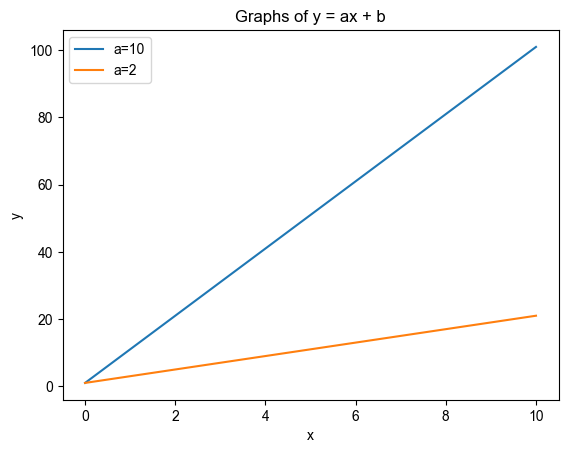
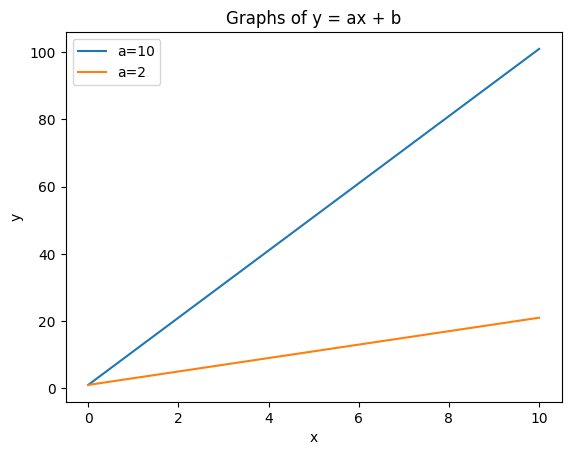
add posts

diff --git a/_posts/기울기.md b/_posts/기울기.md
@@ -1,0 +1,122 @@
+## 기울기
+
+기울어진 정도,가파른정도
+
+직선이존재할때 사선의 가파른정도
+
+어떻게해야 가파른 정도가 증가할까?
+
+
+
+
+
+
+
+
+
+```python
+#disable
+import matplotlib.pyplot as plt
+import numpy as np
+
+# Constants
+a_values = np.arange(10, -1, -1)  # Slopes from 10 to 0
+b = 5  # Intercept
+
+# Generate x values
+x = np.linspace(0, 10, 100)
+
+# Plotting
+for a in a_values:
+    y = a * x + b
+    plt.plot(x, y, label=f'Slope {a}')
+
+# Set plot properties
+plt.xlabel('x')
+plt.ylabel('y')
+plt.title('Graphs of y = ax + b')
+plt.legend()
+
+# Display the plot
+plt.show()
+
+```
+
+
+    
+![png](llinux910.github.io/assets/images/%EA%B8%B0%EC%9A%B8%EA%B8%B0_1_0.png)
+    
+
+
+x값의 증가할떄 y값이 더 크게 증가할수록 기울기는 증가한다
+
+
+
+
+```python
+#disable
+import numpy as np
+import matplotlib.pyplot as plt
+
+x = np.linspace(0, 10, 100)  # x 값 범위 설정
+
+# 기울기 10인 그래프
+y1 = 10*x + 1
+
+# 기울기 2인 그래프
+y2 = 2*x + 1
+
+# 그래프 그리기
+plt.plot(x, y1, label='a=10')
+plt.plot(x, y2, label='a=2')
+
+# 축 라벨과 범례 추가
+plt.xlabel('x')
+plt.ylabel('y')
+plt.legend()
+plt.title('Graphs of y = ax + b')
+
+# 그래프 출력
+plt.show()
+
+```
+
+
+    
+![png](llinux910.github.io/assets/images/%EA%B8%B0%EC%9A%B8%EA%B8%B0_3_0.png)
+    
+
+
+따라서 기울기는 아래와 같이 표현 할 수 있다.
+
+$$
+\frac{y증가량}{x증가량}
+$$
+
+값이 "증가"될려면 
+
+증가되기전값(x), 증가할값(h)이 존재해야한다. 
+
+이때 증가된 값을 'x 로 표현한다면
+
+$$
+'x = x +h
+$$
+
+이 식을 이용해 기울기(m) 구하는 식을 나타내보면
+
+$$
+\begin{align}
+m &= \frac{y'}{x'} \\
+m &= \frac{f(x+h) - f(x)}{h}
+\end{align}
+$$
+
+
+여기서 'y,'x를 **변화량**으로 표현할 수 있고 
+
+이것을 수학적 기호 아래와같이 표현하고, 델타라고 읽는다
+
+$$
+\Delta{x} , \Delta{y}
+$$
